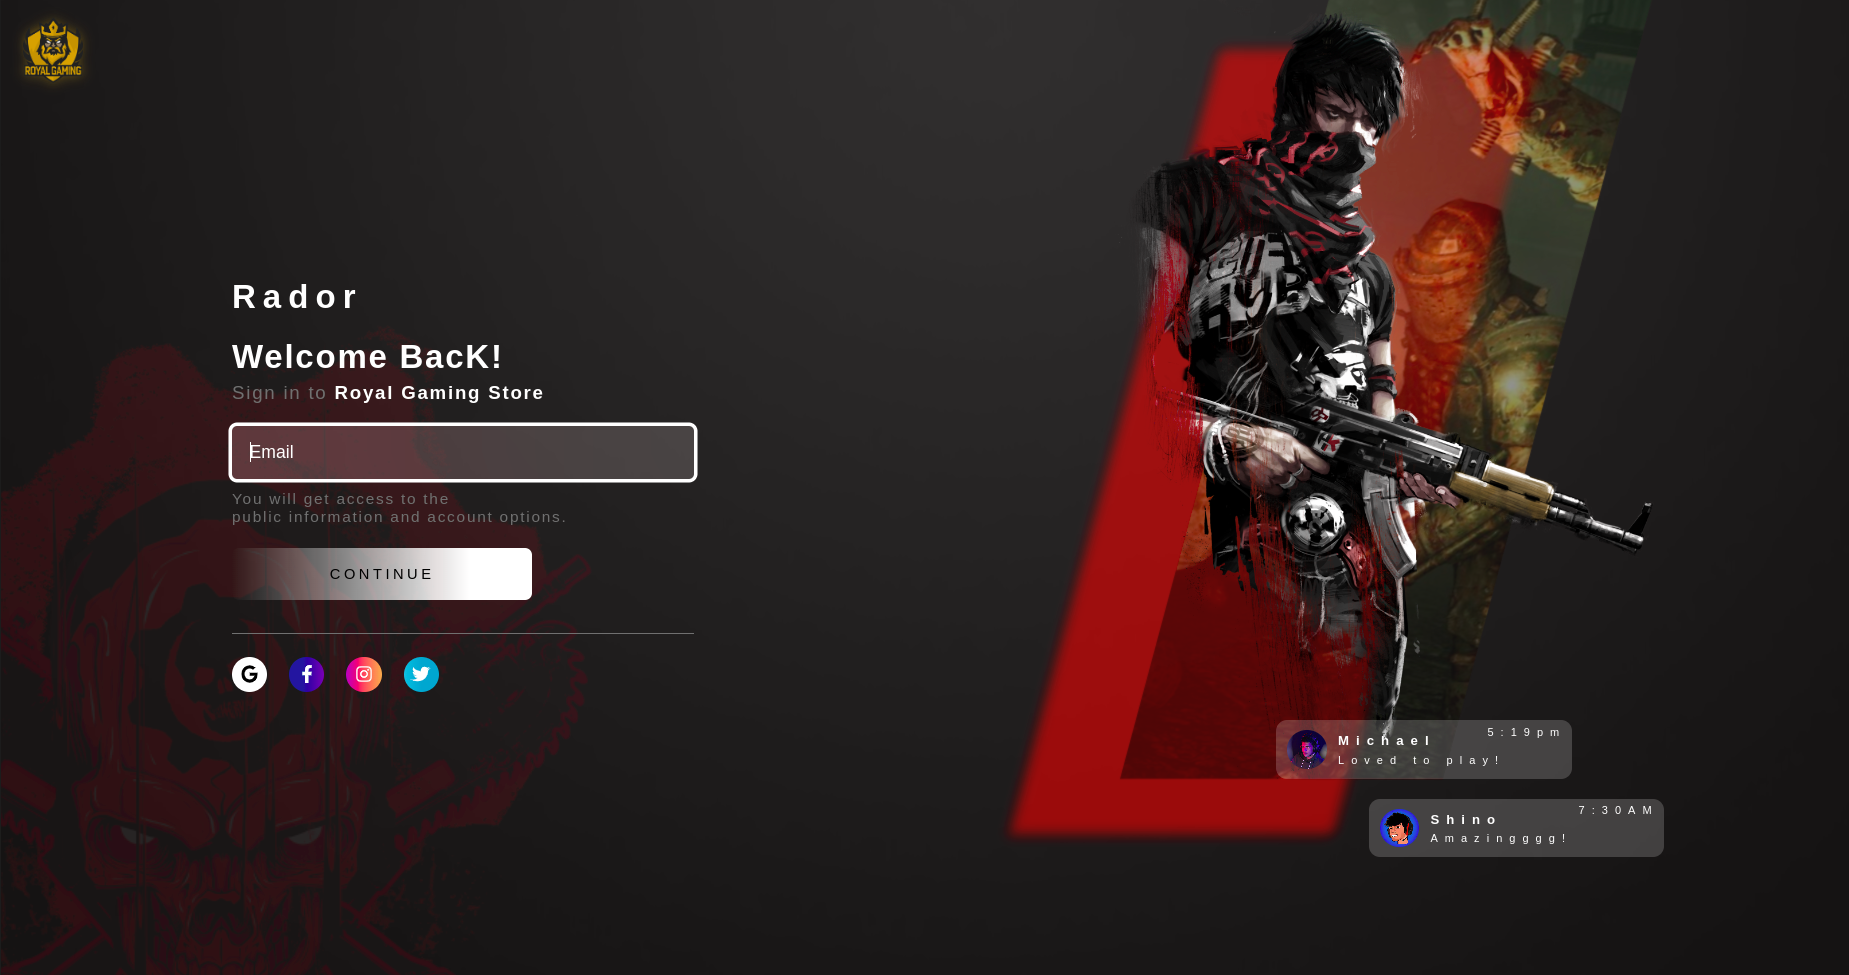
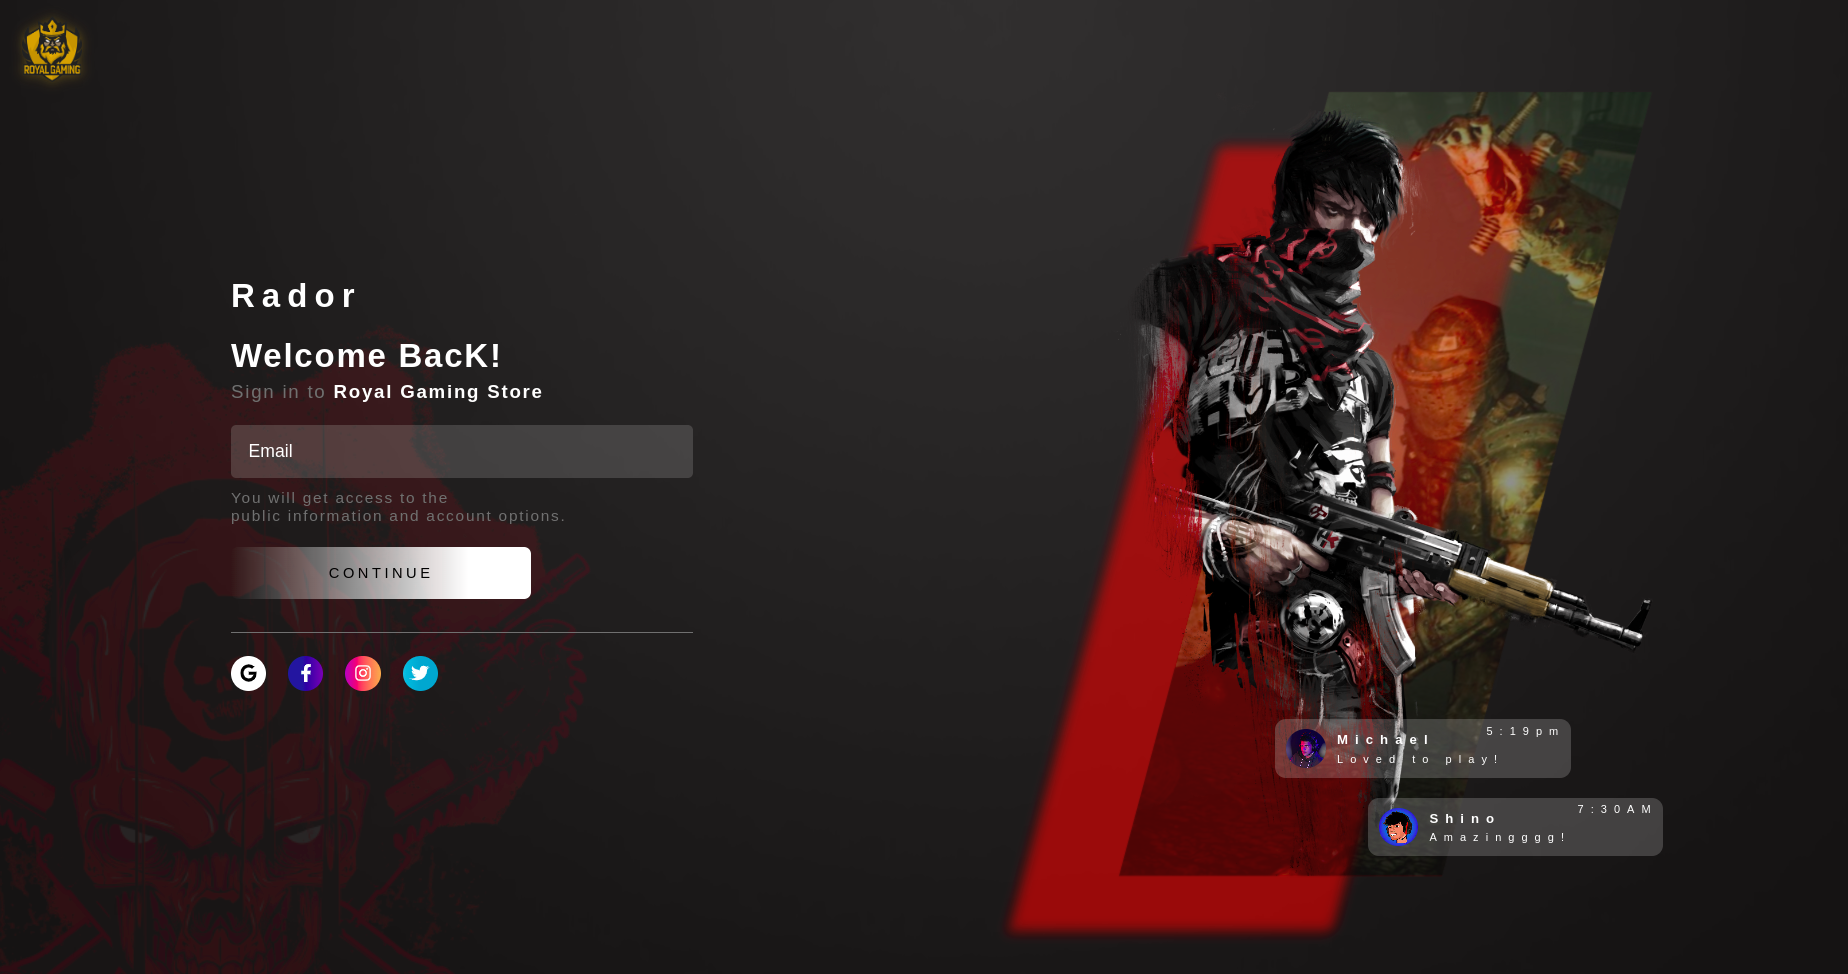
game login page and dashboard integrated with magic.linnk

diff --git a/pages/LandingPage.jsx b/pages/LandingPage.jsx
@@ -390,7 +390,7 @@ const RightContainer = styled.div`
   height: 100%;
   display: flex;
   justify-content: center;
-  align-item: cebter;
+  align-items: center;
   position: relative;
 
   @media only screen and (max-width: 320px) {
